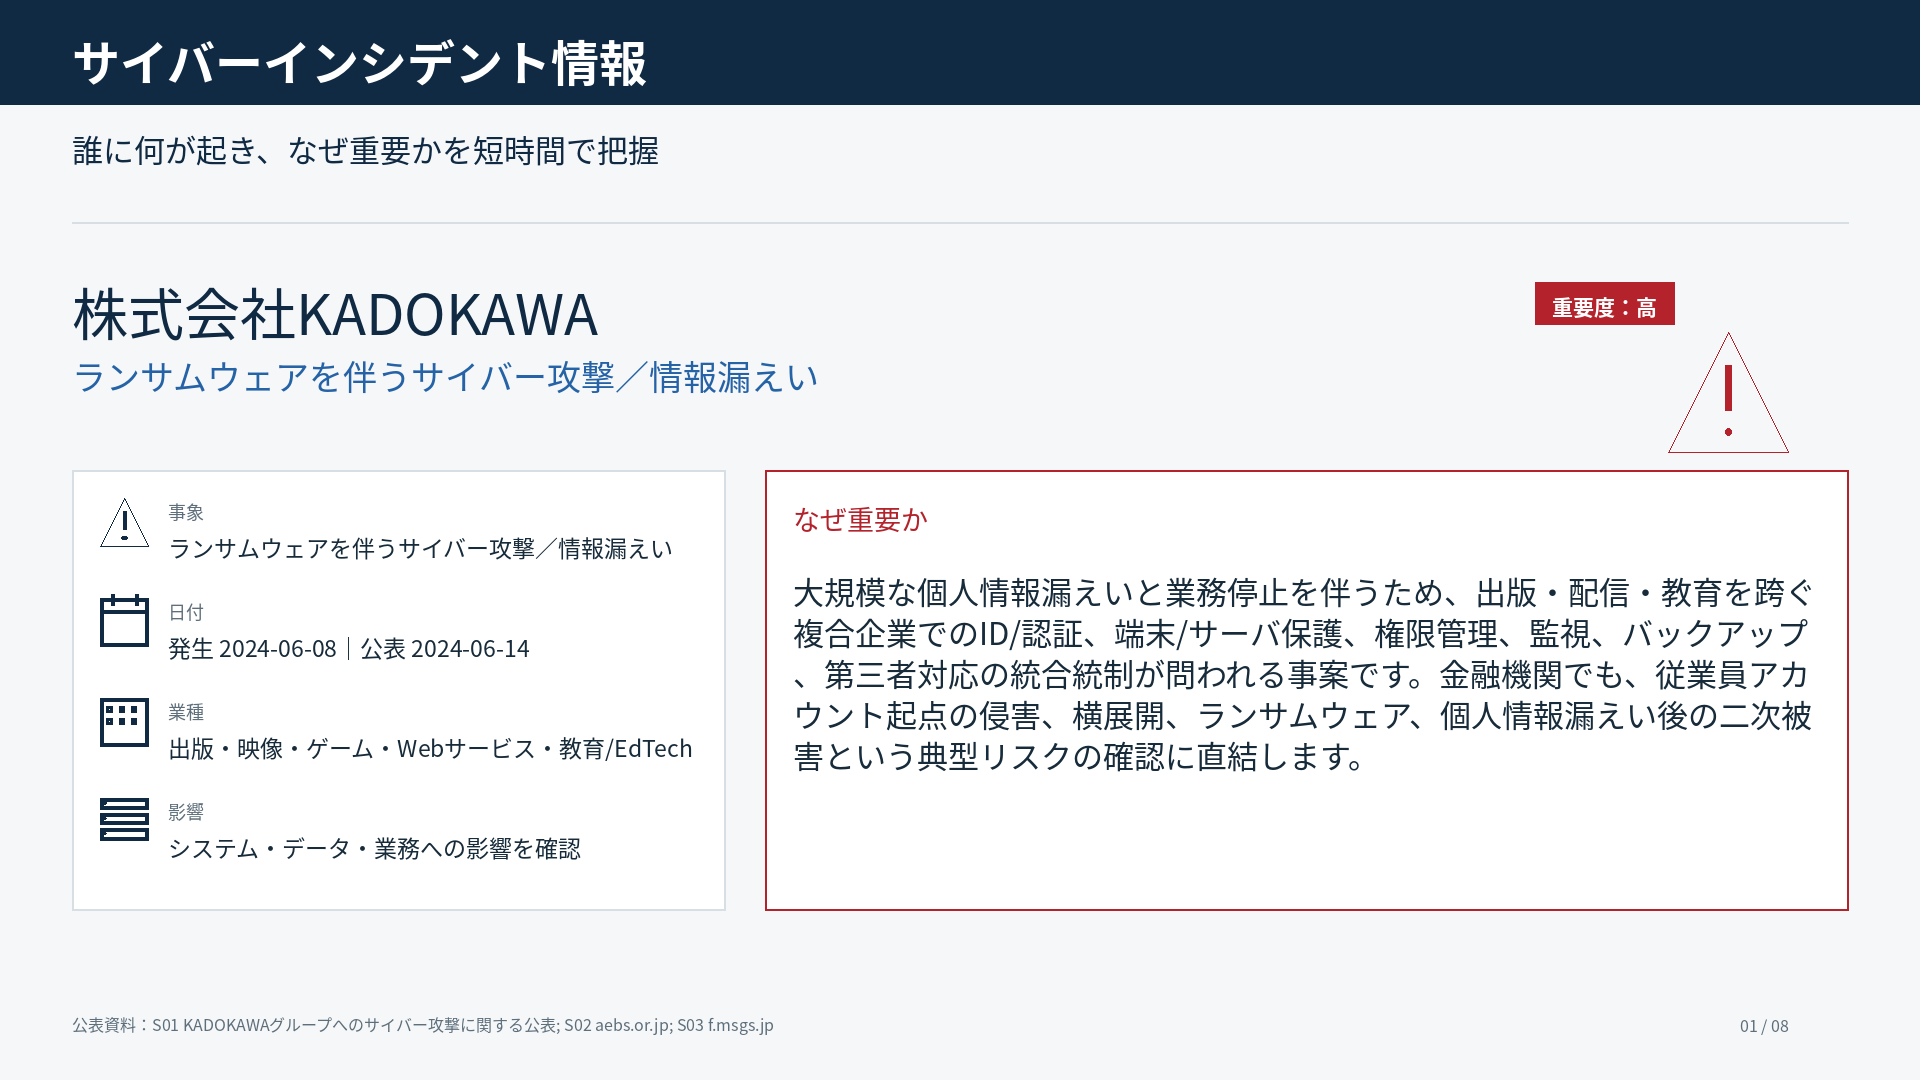
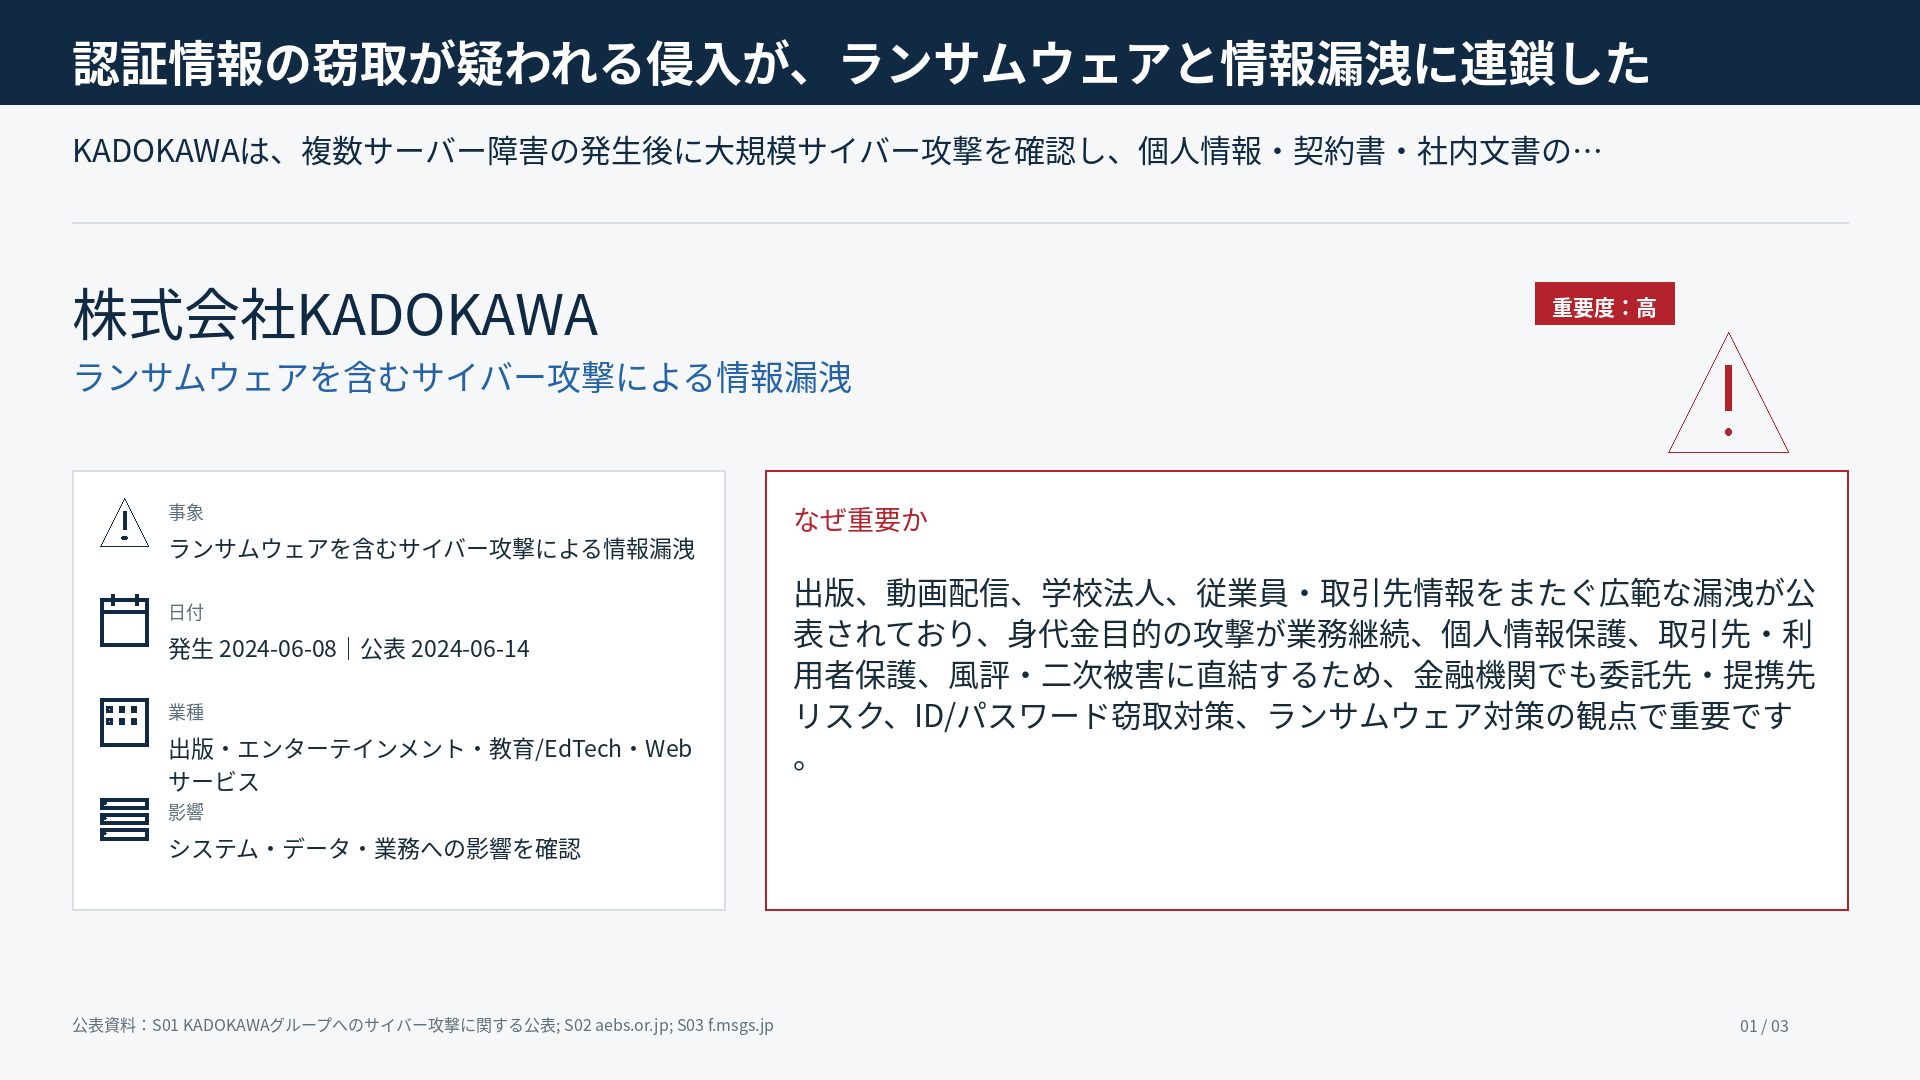
Publish intelligence reports

diff --git a/reports/cyber/202406-kadokawa-6dbb7992a1/index.html b/reports/cyber/202406-kadokawa-6dbb7992a1/index.html
@@ -4,7 +4,7 @@
 <meta charset="utf-8">
 <meta name="viewport" content="width=device-width,initial-scale=1,viewport-fit=cover">
 <meta name="robots" content="noindex,nofollow">
-<title>株式会社KADOKAWA｜ランサムウェアを伴うサイバー攻撃／情報漏えい</title>
+<title>株式会社KADOKAWA｜ランサムウェアを含むサイバー攻撃による情報漏洩</title>
 <style>
 :root{--navy:#12304a;--blue:#17668d;--bg:#eef2f5;--text:#17232d;--muted:#5d6b76}
 *{box-sizing:border-box} body{margin:0;background:var(--bg);color:var(--text);font-family:-apple-system,BlinkMacSystemFont,"Noto Sans JP","Yu Gothic",sans-serif;line-height:1.65}
@@ -18,15 +18,10 @@ h1{font-size:clamp(1.25rem,4.8vw,2rem);line-height:1.45;margin:.55rem 0 1rem} .m
 </style>
 </head>
 <body><main><header><span class="badge test">E2E TEST</span><span class="badge">AIによる分析資料</span>
-<h1>株式会社KADOKAWA｜ランサムウェアを伴うサイバー攻撃／情報漏えい</h1><div class="meta"><span>公表主体</span><strong>株式会社KADOKAWA</strong><span>公表日</span><strong>2024-08-05</strong><span>重要度</span><strong>HIGH</strong></div>
+<h1>株式会社KADOKAWA｜ランサムウェアを含むサイバー攻撃による情報漏洩</h1><div class="meta"><span>公表主体</span><strong>株式会社KADOKAWA</strong><span>公表日</span><strong>2024-08-05</strong><span>重要度</span><strong>HIGH</strong></div>
 <a class="source" href="https://www.kadokawa.co.jp/topics/12088/" target="_blank" rel="noopener noreferrer">主要な公開情報を見る</a></header>
 <section class="slides" aria-label="分析スライド"><a class="slide" href="slide_01.png" target="_blank" rel="noopener"><img src="slide_01.png" alt="スライド 1" loading="lazy"></a>
 <a class="slide" href="slide_02.png" target="_blank" rel="noopener"><img src="slide_02.png" alt="スライド 2" loading="lazy"></a>
-<a class="slide" href="slide_03.png" target="_blank" rel="noopener"><img src="slide_03.png" alt="スライド 3" loading="lazy"></a>
-<a class="slide" href="slide_04.png" target="_blank" rel="noopener"><img src="slide_04.png" alt="スライド 4" loading="lazy"></a>
-<a class="slide" href="slide_05.png" target="_blank" rel="noopener"><img src="slide_05.png" alt="スライド 5" loading="lazy"></a>
-<a class="slide" href="slide_06.png" target="_blank" rel="noopener"><img src="slide_06.png" alt="スライド 6" loading="lazy"></a>
-<a class="slide" href="slide_07.png" target="_blank" rel="noopener"><img src="slide_07.png" alt="スライド 7" loading="lazy"></a>
-<a class="slide" href="slide_08.png" target="_blank" rel="noopener"><img src="slide_08.png" alt="スライド 8" loading="lazy"></a></section>
+<a class="slide" href="slide_03.png" target="_blank" rel="noopener"><img src="slide_03.png" alt="スライド 3" loading="lazy"></a></section>
 
 <footer>本資料は公開情報を基にAIで生成した分析資料です</footer></main></body></html>
